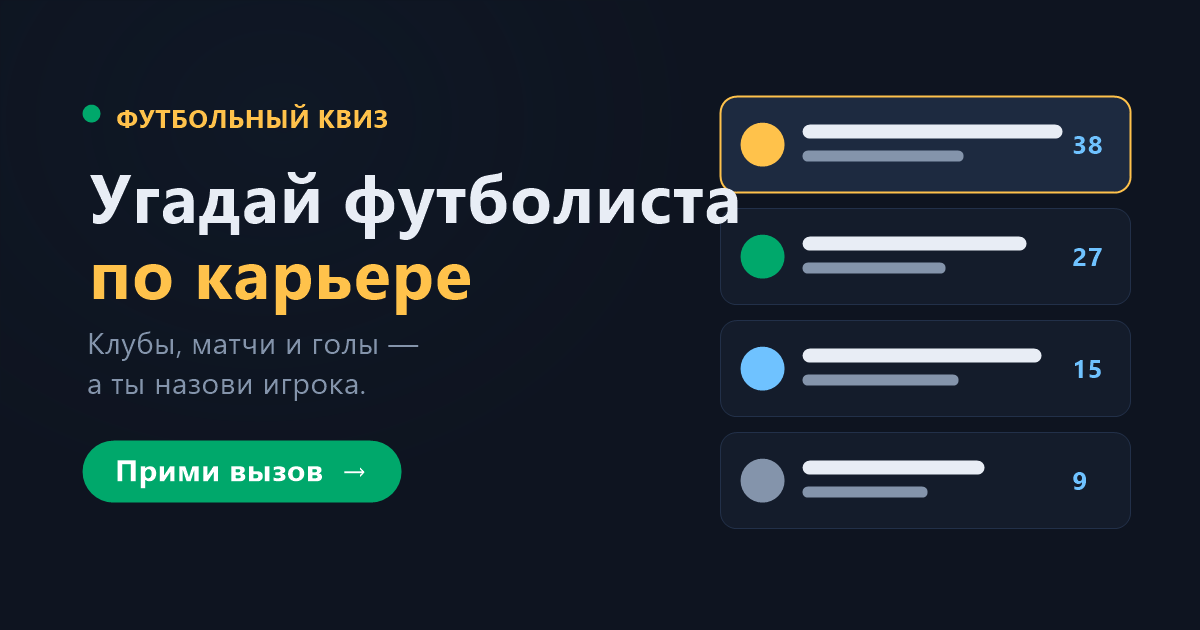
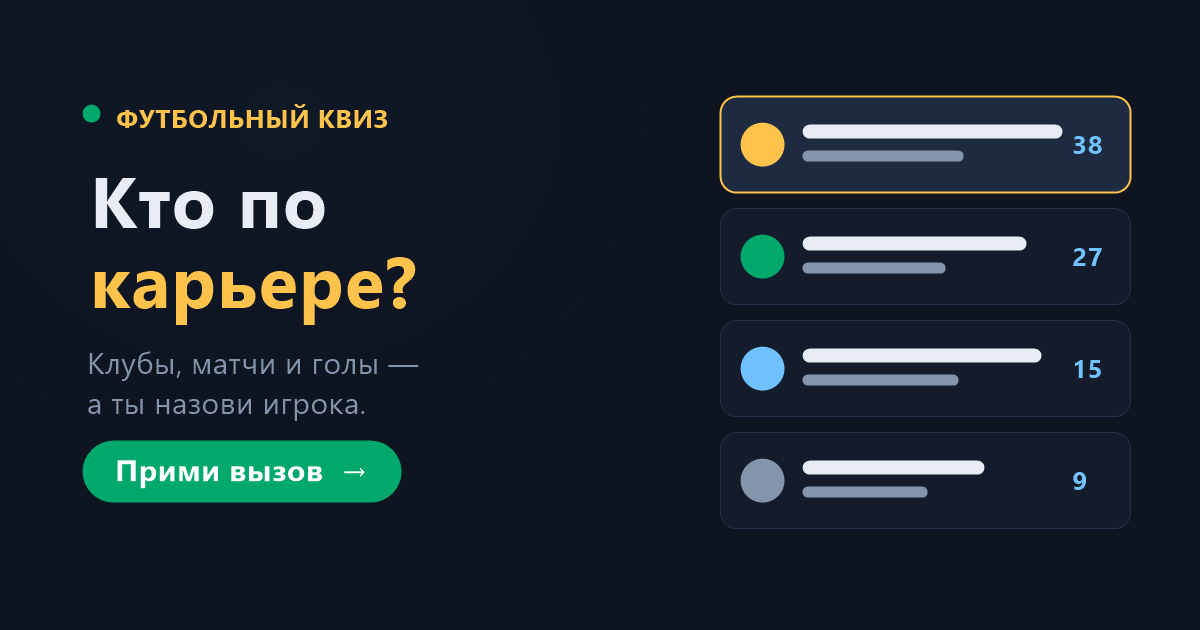
v6: rename to "Кто по карьере?", redesigned menu, data & economy fixes
- brand rename "Кто по карьере?" (title, OG image, top bar, menu)
- redesigned main menu: hero with logo + coin balance, tile buttons, "Продолжить"
- launch now always opens the main menu (no auto-jump into last mode); the
  in-progress game is kept and resumed via "Продолжить"
- report-error modal no longer reveals the (un-guessed) player's name
- help/share is now Telegram-only (t.me/share) instead of the OS share sheet
- photo hint 20 -> 35 coins so it can't be farmed at zero balance (renamed 📸)
- merge consecutive same-club career rows (fixes duplicate Valencia for Gayà)
- reserve/youth teams (X 2 / II / B / В / U19, Bilbao Athletic, Castilla)
  now reuse the parent club's crest; drop non-logo Wikipedia images (stadium photos)

Changed region(s): [[0.0617, 0.2714, 0.6167, 0.6635]]

diff --git a/index.html b/index.html
@@ -3,21 +3,21 @@
 <head>
 <meta charset="UTF-8">
 <meta name="viewport" content="width=device-width, initial-scale=1, maximum-scale=1, user-scalable=no">
-<title>Угадай футболиста по карьере</title>
-<meta name="description" content="Угадай футболиста по его клубам, матчам и голам. Соревнуйся, вызывай друзей на дуэль и поднимайся в таблице лидеров.">
+<title>Кто по карьере?</title>
+<meta name="description" content="Кто по карьере? Угадай футболиста по его клубам, матчам и голам. Соревнуйся, вызывай друзей на дуэль и поднимайся в таблице лидеров.">
 <meta property="og:type" content="website">
-<meta property="og:site_name" content="Угадай футболиста по карьере">
-<meta property="og:title" content="Угадай футболиста по карьере">
+<meta property="og:site_name" content="Кто по карьере?">
+<meta property="og:title" content="Кто по карьере?">
 <meta property="og:description" content="Клубы, матчи и голы — а ты назови игрока. Прими вызов друга!">
 <meta property="og:url" content="https://azalfakk.github.io/career-quiz/">
-<meta property="og:image" content="https://azalfakk.github.io/career-quiz/og.png?v=1">
+<meta property="og:image" content="https://azalfakk.github.io/career-quiz/og.png?v=2">
 <meta property="og:image:type" content="image/png">
 <meta property="og:image:width" content="1200">
 <meta property="og:image:height" content="630">
 <meta name="twitter:card" content="summary_large_image">
-<meta name="twitter:title" content="Угадай футболиста по карьере">
+<meta name="twitter:title" content="Кто по карьере?">
 <meta name="twitter:description" content="Клубы, матчи и голы — а ты назови игрока. Прими вызов друга!">
-<meta name="twitter:image" content="https://azalfakk.github.io/career-quiz/og.png?v=1">
+<meta name="twitter:image" content="https://azalfakk.github.io/career-quiz/og.png?v=2">
 <script src="https://telegram.org/js/telegram-web-app.js"></script>
 <style>
 :root {
@@ -134,6 +134,30 @@ textarea:focus { border-color: var(--accent); }
 .dopt .grow { flex: 1; }
 .dopt .cnt { color: var(--muted); font-size: 12px; font-variant-numeric: tabular-nums; }
 .backBtn { width: 100%; background: transparent; border: 1px solid var(--border); color: var(--muted); font-size: 13px; padding: 10px; margin-top: 2px; }
+/* красивое главное меню */
+.menuCard { max-width: 440px; }
+.menuHero { text-align: center; padding: 4px 0 18px; }
+.menuHero .logo { font-size: 46px; line-height: 1; filter: drop-shadow(0 4px 10px rgba(0,168,107,.35)); }
+.menuHero .brand { font-size: 25px; font-weight: 800; letter-spacing: -.02em; margin: 8px 0 5px; }
+.menuHero .tagline { color: var(--muted); font-size: 12.5px; line-height: 1.4; margin: 0 auto 13px; max-width: 300px; }
+.menuHero .coinChip { display: inline-flex; align-items: center; gap: 6px; background: var(--row); border: 1px solid var(--border); border-radius: 999px; padding: 6px 15px; font-weight: 800; color: var(--gold); font-size: 14px; font-variant-numeric: tabular-nums; }
+.mtile { display: flex; align-items: center; gap: 12px; width: 100%; background: var(--row); border: 1px solid var(--border); border-radius: 14px; padding: 12px 14px; margin-bottom: 9px; text-align: left; color: var(--text); transition: border-color .15s, transform .15s; }
+.mtile:hover { border-color: var(--accent); transform: translateY(-1px); }
+.mtile .mi { width: 42px; height: 42px; border-radius: 11px; background: var(--chip); display: flex; align-items: center; justify-content: center; font-size: 22px; flex: none; }
+.mtile .mi.c-gold { background: rgba(255,194,75,.14); }
+.mtile .mi.c-green { background: rgba(0,168,107,.16); }
+.mtile .mi.c-blue { background: rgba(111,194,255,.14); }
+.mtile .mi.c-red { background: rgba(224,86,86,.14); }
+.mtile .mgrow { flex: 1; min-width: 0; }
+.mtile .mgrow b { display: block; font-size: 15px; font-weight: 700; }
+.mtile .mgrow small { display: block; color: var(--muted); font-size: 11.5px; margin-top: 2px; }
+.mtile .mchevron { color: var(--muted); font-size: 22px; flex: none; }
+.mtile.resume { border-color: var(--accent); background: var(--ok-bg); }
+.mtile.resume .mchevron { color: var(--accent); }
+.mrow2 { display: flex; gap: 9px; margin-top: 2px; }
+.mtile.mini { flex: 1; justify-content: center; gap: 8px; padding: 12px; margin-bottom: 0; }
+.mtile.mini .mi { width: 26px; height: 26px; font-size: 17px; background: transparent; border-radius: 0; }
+.mtile.mini span:last-child { font-weight: 700; font-size: 13.5px; }
 /* leaderboard */
 .podium { display: flex; gap: 8px; align-items: flex-end; justify-content: center; margin: 14px 0; }
 .pod { flex: 1; max-width: 110px; background: var(--row); border: 1px solid var(--border); border-radius: 12px; padding: 10px 6px; text-align: center; }
@@ -185,7 +209,7 @@ textarea:focus { border-color: var(--accent); }
 <div class="top">
   <div class="titleWrap">
     <button class="backTop" id="backTop" aria-label="Назад" style="display:none">‹</button>
-    <div class="title">⚽ Угадай по карьере</div>
+    <div class="title">⚽ Кто по карьере?</div>
   </div>
   <div class="stats">
     <button class="diffBtn" id="menuBtn">Меню</button>
@@ -205,7 +229,7 @@ textarea:focus { border-color: var(--accent); }
   <div class="mid">
     <div class="photoBox" id="photoBox" style="display:none">
       <img id="photoImg" class="blurred" alt="">
-      <button class="photoBtn" id="photoBtn">Фото 🪙 20</button>
+      <button class="photoBtn" id="photoBtn">📸 Фото · 🪙 35</button>
     </div>
     <div class="name-boxes" id="boxes"></div>
   </div>
@@ -227,16 +251,23 @@ textarea:focus { border-color: var(--accent); }
 
 <div class="overlay" id="overlay">
   <!-- главное меню -->
-  <div class="dcard" id="scrMain">
-    <h2>⚽ Угадай по карьере</h2>
-    <div class="sub">Угадай футболиста по клубам, матчам и голам</div>
-    <button class="dopt big" id="goComp"><span class="emoji">🏆</span><span class="grow">Соревновательный<small>60 секунд · таблица лидеров</small></span></button>
-    <button class="dopt big" id="goNormal"><span class="emoji">🎯</span><span class="grow">Обычный режим<small>открывай карьеру постепенно — больше монет</small></span></button>
-    <button class="dopt big" id="goDaily"><span class="emoji">🌟</span><span class="grow">Игрок дня<small>один на всех · стрик · бонусы</small></span></button>
-    <button class="dopt big" id="goPrice"><span class="emoji">💰</span><span class="grow">Кто дороже?<small>угадай, кто ценнее на рынке</small></span></button>
-    <button class="dopt big" id="goDuel"><span class="emoji">⚔️</span><span class="grow">Дуэль с другом<small>одинаковые 10 игроков — кто больше?</small></span></button>
-    <button class="dopt" id="goBoard"><span class="emoji">🏅</span><span class="grow">Таблица лидеров</span></button>
-    <button class="dopt" id="goAch"><span class="emoji">🎖</span><span class="grow">Достижения и эмблемы</span></button>
+  <div class="dcard menuCard" id="scrMain">
+    <div class="menuHero">
+      <div class="logo">⚽</div>
+      <h2 class="brand">Кто по карьере?</h2>
+      <div class="tagline">Угадай футболиста по его клубам, матчам и голам</div>
+      <div class="coinChip">🪙 <span id="menuCoins">0</span></div>
+    </div>
+    <button class="mtile resume" id="goResume" style="display:none"><span class="mi">▶️</span><span class="mgrow"><b>Продолжить</b><small>вернуться к текущему игроку</small></span><span class="mchevron">›</span></button>
+    <button class="mtile" id="goComp"><span class="mi c-gold">🏆</span><span class="mgrow"><b>Соревновательный</b><small>60 секунд · таблица лидеров</small></span><span class="mchevron">›</span></button>
+    <button class="mtile" id="goNormal"><span class="mi c-green">🎯</span><span class="mgrow"><b>Обычный режим</b><small>открывай карьеру постепенно</small></span><span class="mchevron">›</span></button>
+    <button class="mtile" id="goDaily"><span class="mi c-blue">🌟</span><span class="mgrow"><b>Игрок дня</b><small>один на всех · стрик · бонусы</small></span><span class="mchevron">›</span></button>
+    <button class="mtile" id="goPrice"><span class="mi c-gold">💰</span><span class="mgrow"><b>Кто дороже?</b><small>угадай, кто ценнее на рынке</small></span><span class="mchevron">›</span></button>
+    <button class="mtile" id="goDuel"><span class="mi c-red">⚔️</span><span class="mgrow"><b>Дуэль с другом</b><small>одинаковые 10 игроков — кто больше?</small></span><span class="mchevron">›</span></button>
+    <div class="mrow2">
+      <button class="mtile mini" id="goBoard"><span class="mi">🏅</span><span>Лидеры</span></button>
+      <button class="mtile mini" id="goAch"><span class="mi">🎖</span><span>Достижения</span></button>
+    </div>
     <button class="backBtn" id="backMain" style="display:none">← Назад к игре</button>
   </div>
   <!-- выбор сложности -->

diff --git a/app.js b/app.js
@@ -236,10 +236,18 @@ function renderAch() {
 // ---------- меню ----------
 const overlay = $('overlay');
 const screens = ['scrMain', 'scrDiff', 'scrComp', 'scrEnd', 'scrBoard', 'scrAch', 'scrPrice', 'scrDaily', 'scrDuel', 'scrDuelEnd', 'scrReport', 'scrReports'];
+function hasSavedGame() {
+  const g = store.get('game', null);
+  return !!(g && !g.finished && difficulty && PLAYERS.some(p => p.id === g.id));
+}
 function show(id) {
   overlay.classList.remove('hidden');
   screens.forEach(s => $(s).style.display = s === id ? '' : 'none');
-  if (id === 'scrMain') $('backMain').style.display = cur ? '' : 'none';
+  if (id === 'scrMain') {
+    $('menuCoins').textContent = coins;
+    $('backMain').style.display = (cur && mode !== 'help') ? '' : 'none';
+    $('goResume').style.display = (hasSavedGame() && !(cur && mode === 'normal')) ? '' : 'none';
+  }
 }
 function hideMenu() { overlay.classList.add('hidden'); }
 
@@ -267,6 +275,7 @@ function goMenu() {
 $('menuBtn').onclick = goMenu;
 $('backTop').onclick = goMenu;
 $('backMain').onclick = hideMenu;
+$('goResume').onclick = () => { if (restoreGame()) hideMenu(); else next(); };
 $('goNormal').onclick = () => {
   const c = { easy: 0, medium: 0, hard: 0 };
   PLAYERS.forEach(p => c[p.d]++);
@@ -626,23 +635,12 @@ function drawHelpImage(p, revealed, opened) {
     cv.toBlob(b => resolve(b), 'image/png');
   });
 }
-async function shareHelp() {
+function shareHelp() {
   if (!cur) { toast('Сначала открой игрока'); return; }
   const url = PAGE_URL + '?help=' + cur.id + '.' + revealedRows + '.' + openedIdx.join('-');
-  const text = 'Помоги угадать футболиста по карьере! 🤔⚽';
-  let blob = null;
-  try { blob = await drawHelpImage(cur, revealedRows, openedIdx); } catch (e) {}
-  if (blob && navigator.canShare) {
-    const file = new File([blob], 'career.png', { type: 'image/png' });
-    if (navigator.canShare({ files: [file] })) {
-      try { await navigator.share({ files: [file], text: text + '\n' + url }); return; }
-      catch (e) { if (e && e.name === 'AbortError') return; }
-    }
-  }
-  // фолбэк: ссылка через Telegram — получатель откроет карьеру в том же состоянии
-  shareTg(text, url);
-  if (blob) { try { const a = document.createElement('a'); a.href = URL.createObjectURL(blob); a.download = 'career.png'; a.click(); } catch (e) {} }
-  toast('Отправь ссылку другу — он увидит эту карьеру');
+  // строго через Telegram (без системного «поделиться»): друг откроет ссылку и увидит
+  // карьеру ровно в этом состоянии
+  shareTg('Помоги угадать футболиста! 🤔⚽ Открой — тут его клубы:', url);
 }
 $('helpBtn').onclick = shareHelp;
 
@@ -745,7 +743,7 @@ function renderPhoto() {
 }
 $('photoBtn').onclick = () => {
   if (photoOpen || finished) return;
-  const cost = 20;
+  const cost = 35;
   const doIt = () => {
     if (coins < cost) { toast('Не хватает монет 😕'); return; }
     coins -= cost; store.set('coins', coins);
@@ -948,7 +946,7 @@ $('giveBtn').onclick = () => {
 const REPORTS_URL = 'https://jsonblob.com/api/jsonBlob/019f903c-be40-763b-bbe5-afb287fb1099';
 $('reportBtn').onclick = () => {
   if (!cur) { toast('Сначала открой игрока'); return; }
-  $('reportPlayer').innerHTML = `Игрок: <b>${esc(cur.full)}</b> <span style="color:var(--muted)">(${esc(cur.en)})</span>`;
+  $('reportPlayer').innerHTML = '🔒 Игрок скрыт, чтобы не спойлерить. Просто опиши ошибку — я пойму, о ком речь.';
   $('reportText').value = '';
   show('scrReport');
 };
@@ -994,15 +992,11 @@ syncTopBar();
 const helpLink = parseHelpLink();
 const incomingDuel = parseDuelLink();
 if (helpLink) {
-  openHelp(helpLink);
+  openHelp(helpLink);                 // пришли по ссылке помощи
 } else if (incomingDuel) {
-  if (difficulty) next();
-  openDuelIntro(incomingDuel);
-} else if (difficulty && restoreGame()) {
-  hideMenu(); // продолжаем сохранённую партию сразу, без меню
+  openDuelIntro(incomingDuel);        // пришли по ссылке дуэли
 } else {
-  if (difficulty) next();
-  show('scrMain');
+  show('scrMain');                    // всегда стартуем с главного меню (партия сохранена — см. «Продолжить»)
 }
 if (new URLSearchParams(location.search).has('reports')) showReports();
 checkAch();